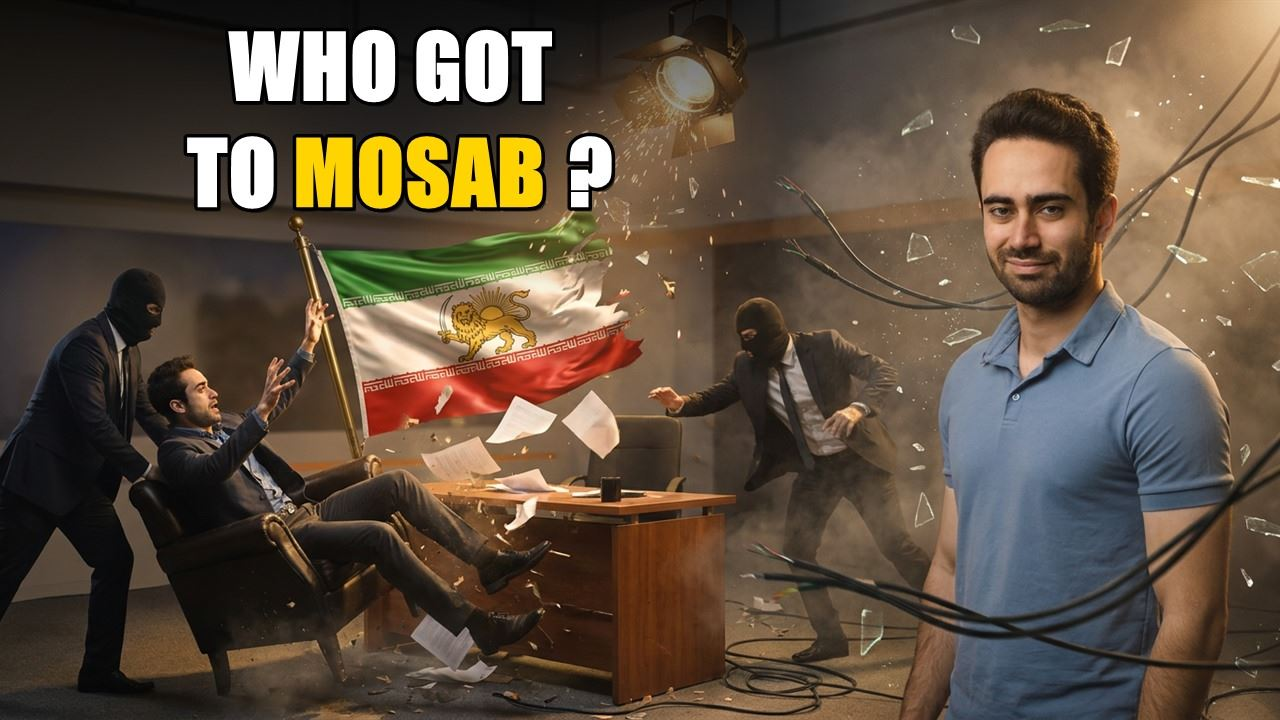
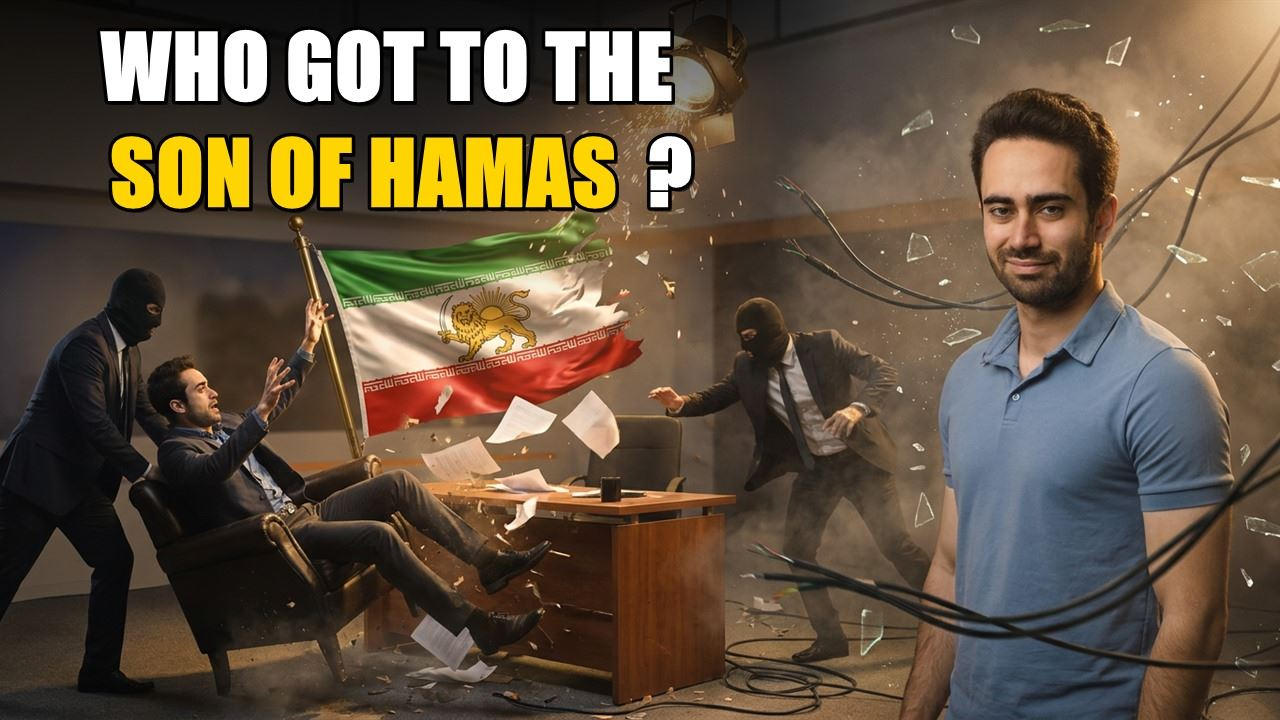
dashboards 2026-08-24T01:37:58Z

Changed region(s): [[0.0625, 0.1833, 0.5625, 0.3056], [0.0625, 0.0306, 0.5312, 0.1528]]

diff --git a/guy-shows.html b/guy-shows.html
@@ -270,13 +270,13 @@ dialog img{display:block;max-width:94vw;max-height:88vh}
 </header>
 
 <!-- Self-checking freshness banner: the page compares its own build time against the clock. -->
-<div id="freshbar" class="fresh" data-built="2026-08-24T01:03:01Z">
+<div id="freshbar" class="fresh" data-built="2026-08-24T01:27:09Z">
   <div class="fresh-l">
-    <b id="freshtitle">This page was updated Mon Aug 24, 09:03</b>
+    <b id="freshtitle">This page was updated Mon Aug 24, 09:27</b>
     <span id="freshage"></span>
   </div>
-  <span class="newtoday none" id="newtoday" data-new="0"
-        title="Clips whose covers finished in the last 24 hours">New today: 0</span>
+  <span class="newtoday" id="newtoday" data-new="1"
+        title="Clips whose covers finished in the last 24 hours">New today: 1</span>
   <button type="button" id="freshreload" class="fresh-btn" hidden>Get the newest version</button>
 </div>
 
@@ -355,7 +355,7 @@ dialog img{display:block;max-width:94vw;max-height:88vh}
     <div class="vidwhy" hidden><textarea class="vidtext" rows="2" placeholder="Why are you not using this video? e.g. it starts in the middle of a sentence; it repeats the same point twice; the ending is cut off"></textarea></div>
     <div class="means none" aria-live="polite">Not answered yet.</div>
   </div>
-  <div class="cliptime">Added Aug 8 &middot; Covers made Aug 11 &middot; Ready Aug 9 &middot; <b>3:41</b> <span class="nomid">no mid-roll</span></div>
+  <div class="cliptime">Added Aug 8 &middot; Covers made Aug 11 &middot; Ready Aug 23 &middot; <b>3:41</b> <span class="nomid">no mid-roll</span></div>
   <div class="covers">
     <div class="cov" data-var="A" data-head="NETANYAHU LEAKED IT HIMSELF" data-title="Netanyahu&#39;s Leaked Promise on the Haredi Draft">
       <button class="zoombtn" type="button" aria-label="Enlarge cover A"><img src="img/2026-08-08-guy-S1-A.jpg" alt="Cover A: NETANYAHU LEAKED IT HIMSELF" loading="lazy"><span class="zoomhint">Tap to enlarge</span></button>
@@ -457,7 +457,7 @@ Talk to Guy in his group calls: https://www.skool.com/libertypolitics/about?ref=
     <div class="vidwhy" hidden><textarea class="vidtext" rows="2" placeholder="Why are you not using this video? e.g. it starts in the middle of a sentence; it repeats the same point twice; the ending is cut off"></textarea></div>
     <div class="means none" aria-live="polite">Not answered yet.</div>
   </div>
-  <div class="cliptime">Added Aug 8 &middot; Covers made Aug 9 &middot; Ready Aug 9 &middot; <b>5:51</b> <span class="nomid">no mid-roll</span></div>
+  <div class="cliptime">Added Aug 8 &middot; Covers made Aug 9 &middot; Ready Aug 23 &middot; <b>5:51</b> <span class="nomid">no mid-roll</span></div>
   <div class="covers">
     <div class="cov" data-var="A" data-head="THE UNIT BUILT FOR THE ULTRA-ORTHODOX" data-title="Inside Netzach Yehuda, the Haredi Combat Unit">
       <button class="zoombtn" type="button" aria-label="Enlarge cover A"><img src="img/2026-08-08-guy-S2-A.jpg" alt="Cover A: THE UNIT BUILT FOR THE ULTRA-ORTHODOX" loading="lazy"><span class="zoomhint">Tap to enlarge</span></button>
@@ -559,7 +559,7 @@ Talk to Guy in his group calls: https://www.skool.com/libertypolitics/about?ref=
     <div class="vidwhy" hidden><textarea class="vidtext" rows="2" placeholder="Why are you not using this video? e.g. it starts in the middle of a sentence; it repeats the same point twice; the ending is cut off"></textarea></div>
     <div class="means none" aria-live="polite">Not answered yet.</div>
   </div>
-  <div class="cliptime">Added Aug 8 &middot; Covers made Aug 11 &middot; Ready Aug 9 &middot; <b>1:13</b> <span class="nomid">no mid-roll</span></div>
+  <div class="cliptime">Added Aug 8 &middot; Covers made Aug 11 &middot; Ready Aug 23 &middot; <b>1:13</b> <span class="nomid">no mid-roll</span></div>
   <div class="covers">
     <div class="cov" data-var="B" data-head="Israel Was Warned About This For Years" data-title="The Complacency That Survived Into 2026">
       <button class="zoombtn" type="button" aria-label="Enlarge cover B"><img src="img/2026-08-08-guy-S3-B.jpg" alt="Cover B: Israel Was Warned About This For Years" loading="lazy"><span class="zoomhint">Tap to enlarge</span></button>
@@ -661,7 +661,7 @@ Talk to Guy in his group calls: https://www.skool.com/libertypolitics/about?ref=
     <div class="vidwhy" hidden><textarea class="vidtext" rows="2" placeholder="Why are you not using this video? e.g. it starts in the middle of a sentence; it repeats the same point twice; the ending is cut off"></textarea></div>
     <div class="means none" aria-live="polite">Not answered yet.</div>
   </div>
-  <div class="cliptime">Added Aug 8 &middot; Covers made Aug 9 &middot; Ready Aug 9 &middot; <b>2:45</b> <span class="nomid">no mid-roll</span></div>
+  <div class="cliptime">Added Aug 8 &middot; Covers made Aug 9 &middot; Ready Aug 23 &middot; <b>2:45</b> <span class="nomid">no mid-roll</span></div>
   <div class="covers">
     <div class="cov" data-var="A" data-head="BEN-GVIR IS NOT TRUMP" data-title="Why Ben-Gvir Is Not Israel&#39;s Donald Trump">
       <button class="zoombtn" type="button" aria-label="Enlarge cover A"><img src="img/2026-08-08-guy-S4-A.jpg" alt="Cover A: BEN-GVIR IS NOT TRUMP" loading="lazy"><span class="zoomhint">Tap to enlarge</span></button>
@@ -763,7 +763,7 @@ Talk to Guy in his group calls: https://www.skool.com/libertypolitics/about?ref=
     <div class="vidwhy" hidden><textarea class="vidtext" rows="2" placeholder="Why are you not using this video? e.g. it starts in the middle of a sentence; it repeats the same point twice; the ending is cut off"></textarea></div>
     <div class="means none" aria-live="polite">Not answered yet.</div>
   </div>
-  <div class="cliptime">Added Aug 8 &middot; Covers made Aug 9 &middot; Ready Aug 9 &middot; <b>12:06</b></div>
+  <div class="cliptime">Added Aug 8 &middot; Covers made Aug 9 &middot; Ready Aug 23 &middot; <b>12:06</b></div>
   <div class="covers">
     <div class="cov" data-var="C" data-head="OCTOBER 7 DID NOT CHANGE HIM" data-title="He Told the New Yorker He Has Not Changed (And That Worries Me)">
       <button class="zoombtn" type="button" aria-label="Enlarge cover C"><img src="img/2026-08-08-guy-S5-C.jpg" alt="Cover C: OCTOBER 7 DID NOT CHANGE HIM" loading="lazy"><span class="zoomhint">Tap to enlarge</span></button>
@@ -865,7 +865,7 @@ Talk to Guy in his group calls: https://www.skool.com/libertypolitics/about?ref=
     <div class="vidwhy" hidden><textarea class="vidtext" rows="2" placeholder="Why are you not using this video? e.g. it starts in the middle of a sentence; it repeats the same point twice; the ending is cut off"></textarea></div>
     <div class="means none" aria-live="polite">Not answered yet.</div>
   </div>
-  <div class="cliptime">Added Aug 8 &middot; Covers made Aug 9 &middot; Ready Aug 9 &middot; <b>0:35</b> <span class="nomid">no mid-roll</span></div>
+  <div class="cliptime">Added Aug 8 &middot; Covers made Aug 9 &middot; Ready Aug 23 &middot; <b>0:35</b> <span class="nomid">no mid-roll</span></div>
   <div class="covers">
     <div class="cov" data-var="C" data-head="BEDOUIN SMUGGLERS FLEW THEM IN" data-title="The Negev Route Into Gaza (Nobody Talks About It)">
       <button class="zoombtn" type="button" aria-label="Enlarge cover C"><img src="img/2026-08-08-guy-S6-C.jpg" alt="Cover C: BEDOUIN SMUGGLERS FLEW THEM IN" loading="lazy"><span class="zoomhint">Tap to enlarge</span></button>
@@ -967,7 +967,7 @@ Talk to Guy in his group calls: https://www.skool.com/libertypolitics/about?ref=
     <div class="vidwhy" hidden><textarea class="vidtext" rows="2" placeholder="Why are you not using this video? e.g. it starts in the middle of a sentence; it repeats the same point twice; the ending is cut off"></textarea></div>
     <div class="means none" aria-live="polite">Not answered yet.</div>
   </div>
-  <div class="cliptime">Added Aug 8 &middot; Covers made Aug 11 &middot; Ready Aug 9 &middot; <b>1:11</b> <span class="nomid">no mid-roll</span></div>
+  <div class="cliptime">Added Aug 8 &middot; Covers made Aug 11 &middot; Ready Aug 23 &middot; <b>1:11</b> <span class="nomid">no mid-roll</span></div>
   <div class="covers">
     <div class="cov" data-var="A" data-head="POVERTY IS THE PLO&#39;S PRODUCT" data-title="How the PLO Profits From Palestinian Poverty">
       <button class="zoombtn" type="button" aria-label="Enlarge cover A"><img src="img/2026-08-08-guy-S7-A.jpg" alt="Cover A: POVERTY IS THE PLO&#39;S PRODUCT" loading="lazy"><span class="zoomhint">Tap to enlarge</span></button>
@@ -1069,7 +1069,7 @@ Talk to Guy in his group calls: https://www.skool.com/libertypolitics/about?ref=
     <div class="vidwhy" hidden><textarea class="vidtext" rows="2" placeholder="Why are you not using this video? e.g. it starts in the middle of a sentence; it repeats the same point twice; the ending is cut off"></textarea></div>
     <div class="means none" aria-live="polite">Not answered yet.</div>
   </div>
-  <div class="cliptime">Added Aug 8 &middot; Covers made Aug 21 &middot; Ready Aug 9 &middot; <b>1:17</b> <span class="nomid">no mid-roll</span></div>
+  <div class="cliptime">Added Aug 8 &middot; Covers made Aug 23 &middot; Ready Aug 23 &middot; <b>1:17</b> <span class="nomid">no mid-roll</span></div>
   <div class="covers">
     <div class="cov" data-var="A" data-head="HE TURNED ON PAHLAVI" data-title="Mosab Hassan Yousef&#39;s Turn Against Iran&#39;s Opposition">
       <button class="zoombtn" type="button" aria-label="Enlarge cover A"><img src="img/2026-08-08-guy-S8-A.jpg" alt="Cover A: HE TURNED ON PAHLAVI" loading="lazy"><span class="zoomhint">Tap to enlarge</span></button>
@@ -1119,8 +1119,8 @@ Talk to Guy in his group calls: https://www.skool.com/libertypolitics/about?ref=
       </div>
       <div class="covwhy" hidden><textarea class="whytext" rows="2" placeholder="Why not this cover? A few words is enough. e.g. that is not Armin, text covers his face, the hosts are too small"></textarea></div>
     </div>
-    <div class="cov" data-var="C" data-head="WHO GOT TO MOSAB?" data-title="Did the MEK Reach the Son of Hamas (Guy&#39;s Theory)">
-      <button class="zoombtn" type="button" aria-label="Enlarge cover C"><img src="img/2026-08-08-guy-S8-C.jpg" alt="Cover C: WHO GOT TO MOSAB?" loading="lazy"><span class="zoomhint">Tap to enlarge</span></button>
+    <div class="cov" data-var="C" data-head="WHO GOT TO THE SON OF HAMAS?" data-title="Did the MEK Reach the Son of Hamas (Guy&#39;s Theory)">
+      <button class="zoombtn" type="button" aria-label="Enlarge cover C"><img src="img/2026-08-08-guy-S8-C.jpg" alt="Cover C: WHO GOT TO THE SON OF HAMAS?" loading="lazy"><span class="zoomhint">Tap to enlarge</span></button>
       <div class="covdec">
         <div class="decq">&#128444;&#65039; This cover C</div>
         <div class="decbtns">
@@ -1171,7 +1171,7 @@ Talk to Guy in his group calls: https://www.skool.com/libertypolitics/about?ref=
     <div class="vidwhy" hidden><textarea class="vidtext" rows="2" placeholder="Why are you not using this video? e.g. it starts in the middle of a sentence; it repeats the same point twice; the ending is cut off"></textarea></div>
     <div class="means none" aria-live="polite">Not answered yet.</div>
   </div>
-  <div class="cliptime">Added Aug 8 &middot; Covers made Aug 9 &middot; Ready Aug 9 &middot; <b>2:18</b> <span class="nomid">no mid-roll</span></div>
+  <div class="cliptime">Added Aug 8 &middot; Covers made Aug 9 &middot; Ready Aug 23 &middot; <b>2:18</b> <span class="nomid">no mid-roll</span></div>
   <div class="covers">
     <div class="cov" data-var="A" data-head="EIGHT STATES, NOT ONE" data-title="Mordechai Kedar&#39;s Emirates Model for Palestine">
       <button class="zoombtn" type="button" aria-label="Enlarge cover A"><img src="img/2026-08-08-guy-S9-A.jpg" alt="Cover A: EIGHT STATES, NOT ONE" loading="lazy"><span class="zoomhint">Tap to enlarge</span></button>
@@ -1249,7 +1249,7 @@ Talk to Guy in his group calls: https://www.skool.com/libertypolitics/about?ref=
     <div class="vidwhy" hidden><textarea class="vidtext" rows="2" placeholder="Why are you not using this video? e.g. it starts in the middle of a sentence; it repeats the same point twice; the ending is cut off"></textarea></div>
     <div class="means none" aria-live="polite">Not answered yet.</div>
   </div>
-  <div class="cliptime">Added Aug 8 &middot; Covers made Aug 9 &middot; Ready Aug 9 &middot; <b>0:45</b> <span class="nomid">no mid-roll</span></div>
+  <div class="cliptime">Added Aug 8 &middot; Covers made Aug 9 &middot; Ready Aug 23 &middot; <b>0:45</b> <span class="nomid">no mid-roll</span></div>
   <div class="covers">
     <div class="cov" data-var="A" data-head="NEVER BECAME NOT WHILE I&#39;M HERE" data-title="Trump and Rubio Just Softened on Iran&#39;s Bomb">
       <button class="zoombtn" type="button" aria-label="Enlarge cover A"><img src="img/2026-08-08-guy-S10-A.jpg" alt="Cover A: NEVER BECAME NOT WHILE I&#39;M HERE" loading="lazy"><span class="zoomhint">Tap to enlarge</span></button>
@@ -1351,7 +1351,7 @@ Talk to Guy in his group calls: https://www.skool.com/libertypolitics/about?ref=
     <div class="vidwhy" hidden><textarea class="vidtext" rows="2" placeholder="Why are you not using this video? e.g. it starts in the middle of a sentence; it repeats the same point twice; the ending is cut off"></textarea></div>
     <div class="means none" aria-live="polite">Not answered yet.</div>
   </div>
-  <div class="cliptime">Added Aug 8 &middot; Covers made Aug 9 &middot; Ready Aug 9 &middot; <b>5:05</b> <span class="nomid">no mid-roll</span></div>
+  <div class="cliptime">Added Aug 8 &middot; Covers made Aug 9 &middot; Ready Aug 23 &middot; <b>5:05</b> <span class="nomid">no mid-roll</span></div>
   <div class="covers">
     <div class="cov" data-var="C" data-head="HAMAS IS BECOMING ENCLAVES" data-title="Smotrich Demands the Force Be Stopped (A Cabinet Crisis)">
       <button class="zoombtn" type="button" aria-label="Enlarge cover C"><img src="img/2026-08-08-guy-S11-C.jpg" alt="Cover C: HAMAS IS BECOMING ENCLAVES" loading="lazy"><span class="zoomhint">Tap to enlarge</span></button>

diff --git a/ali-costreams.html b/ali-costreams.html
@@ -270,9 +270,9 @@ dialog img{display:block;max-width:94vw;max-height:88vh}
 </header>
 
 <!-- Self-checking freshness banner: the page compares its own build time against the clock. -->
-<div id="freshbar" class="fresh" data-built="2026-08-24T01:02:35Z">
+<div id="freshbar" class="fresh" data-built="2026-08-24T01:26:44Z">
   <div class="fresh-l">
-    <b id="freshtitle">This page was updated Mon Aug 24, 09:02</b>
+    <b id="freshtitle">This page was updated Mon Aug 24, 09:26</b>
     <span id="freshage"></span>
   </div>
   <span class="newtoday" id="newtoday" data-new="6"

diff --git a/armin-shows.html b/armin-shows.html
@@ -270,9 +270,9 @@ dialog img{display:block;max-width:94vw;max-height:88vh}
 </header>
 
 <!-- Self-checking freshness banner: the page compares its own build time against the clock. -->
-<div id="freshbar" class="fresh" data-built="2026-08-24T01:13:57Z">
+<div id="freshbar" class="fresh" data-built="2026-08-24T01:37:56Z">
   <div class="fresh-l">
-    <b id="freshtitle">This page was updated Mon Aug 24, 09:13</b>
+    <b id="freshtitle">This page was updated Mon Aug 24, 09:37</b>
     <span id="freshage"></span>
   </div>
   <span class="newtoday" id="newtoday" data-new="2"

diff --git a/guy-picks.html b/guy-picks.html
@@ -1017,7 +1017,7 @@
     <textarea id="report" readonly></textarea>
     <p class="note">Copied. Paste it straight into Telegram.</p>
   </div>
-  <p class="built">50 topics across 6 streams. Updated 2026-08-24T01:03:02Z.</p>
+  <p class="built">50 topics across 6 streams. Updated 2026-08-24T01:27:11Z.</p>
 </div>
 
 <div class="bar">
